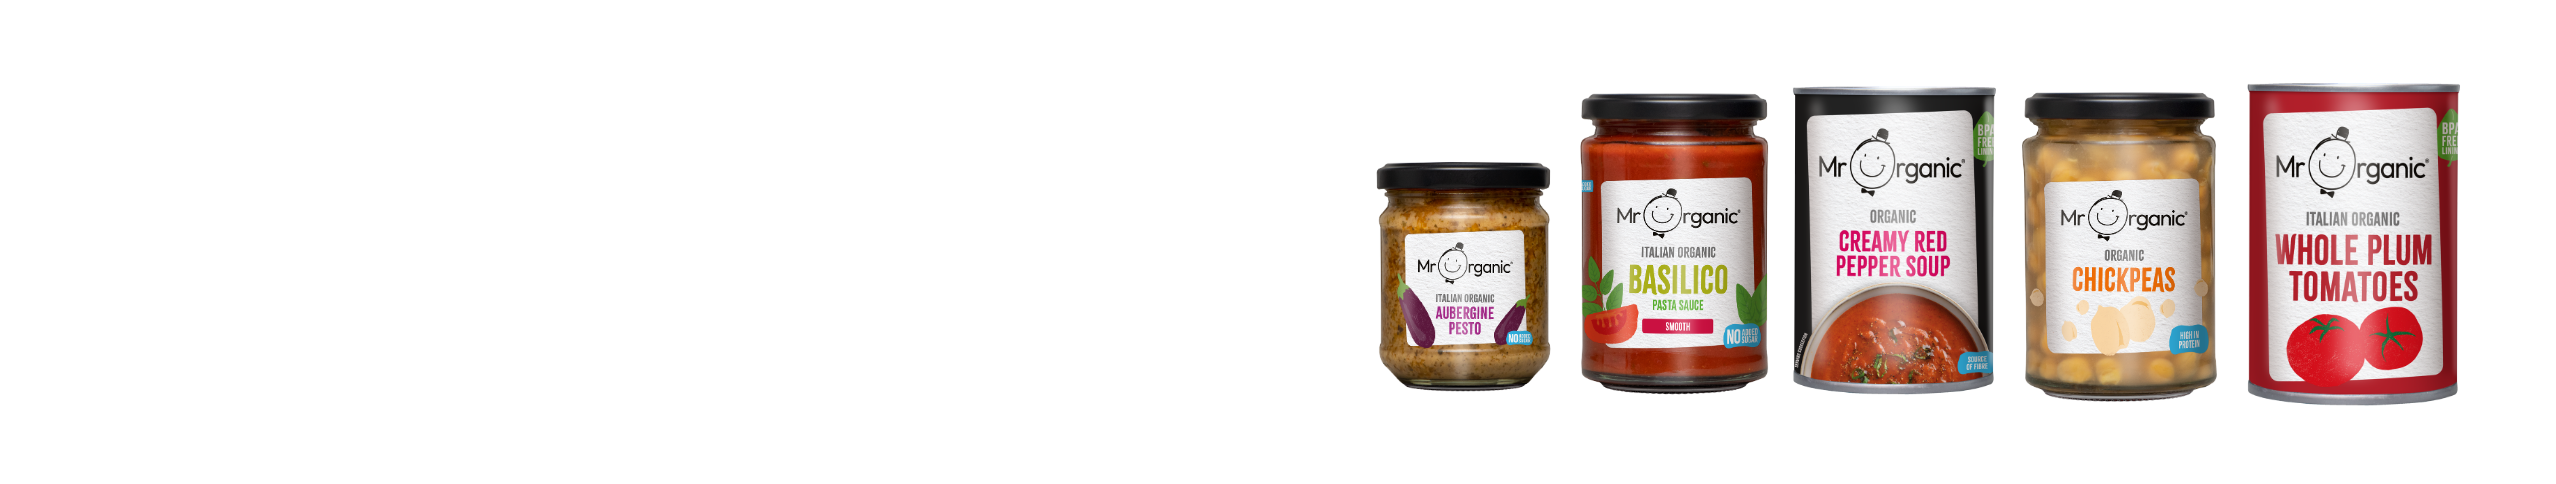
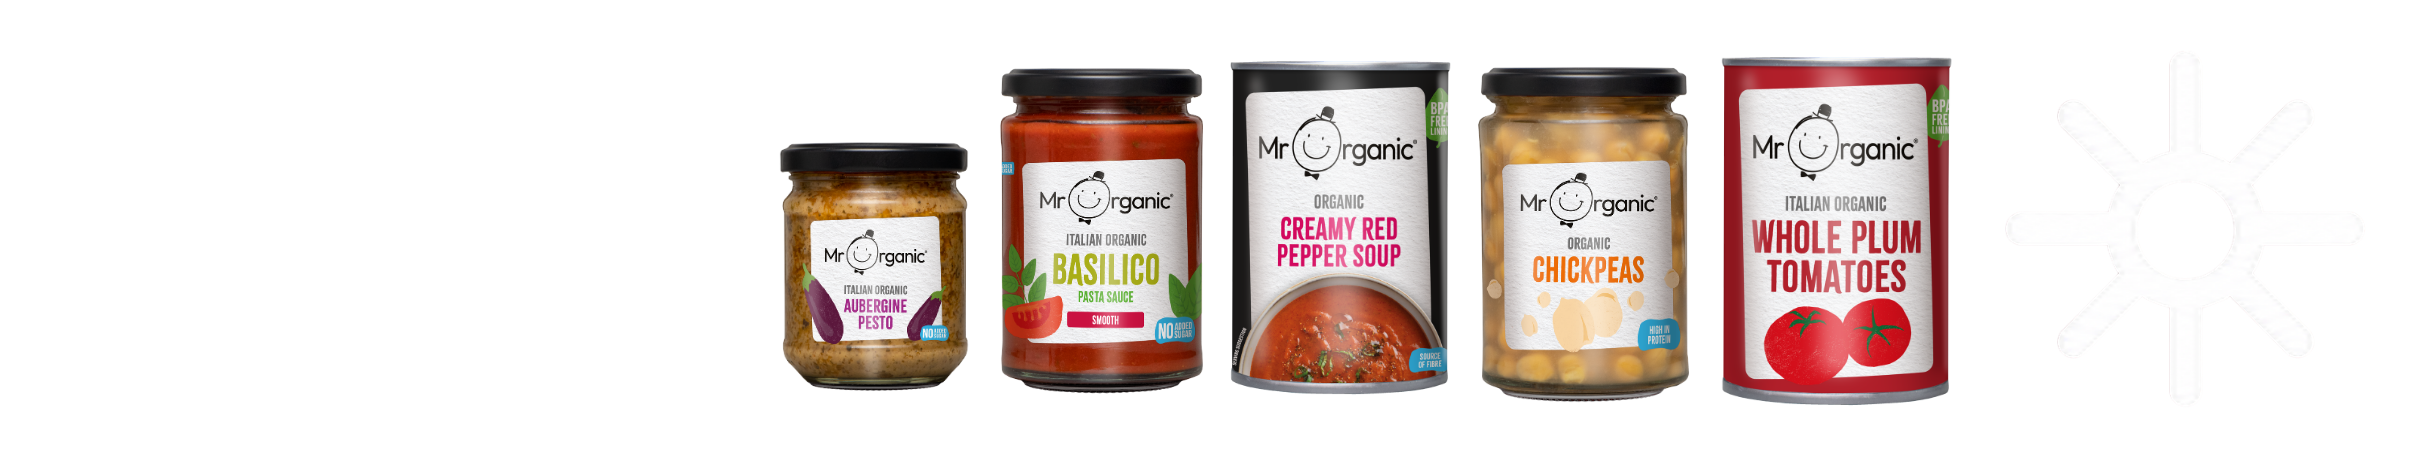
Enlarge the homepage Vault Market products on the left and use the updated pantry artwork.

diff --git a/src/components/home/HomeVaultMarketBanner.tsx b/src/components/home/HomeVaultMarketBanner.tsx
@@ -1,7 +1,7 @@
 import Image from "next/image";
 import Link from "next/link";
 
-const HOME_BANNER_SRC = "/vault market/home_vaultmarket.png";
+const HOME_BANNER_SRC = "/vault market/pantry_banner.png";
 
 const PILLARS = [
   {
@@ -27,31 +27,34 @@ export function HomeVaultMarketBanner({
     <section className={compactSpacing ? "py-8 sm:py-10" : "py-10 sm:py-14"}>
       <div className="mx-auto max-w-[1200px] px-4 sm:px-6 lg:px-8">
         <div className="relative overflow-hidden rounded-2xl bg-[#064E3B] text-white shadow-sm">
-          <div className="pointer-events-none absolute inset-y-0 right-0 hidden w-[42%] md:block">
-            <Image
-              src={HOME_BANNER_SRC}
-              alt=""
-              fill
-              sizes="(max-width: 768px) 0px, 42vw"
-              className="object-contain object-right-bottom"
-            />
-          </div>
+          <div className="relative md:flex md:min-h-[22rem] md:items-center">
+            <div className="pointer-events-none absolute inset-y-0 left-0 hidden w-1/2 items-center overflow-hidden md:flex">
+              <Image
+                src={HOME_BANNER_SRC}
+                alt=""
+                width={2414}
+                height={457}
+                sizes="80vw"
+                className="h-[21rem] w-auto max-w-none -translate-x-[32.3%] object-contain object-left"
+              />
+            </div>
 
-          <div className="relative z-10 px-6 pt-8 sm:px-10 sm:pt-10 md:max-w-[58%]">
-            <h2 className="text-2xl font-bold tracking-tight text-white sm:text-3xl">
-              Vault Market is Live
-            </h2>
-            <p className="mt-3 max-w-xl text-sm leading-relaxed text-emerald-50 sm:text-base">
-              Direct savings on everyday items, packed and shipped straight from our
-              central Auckland facility.
-            </p>
-            <div className="mt-6">
-              <Link
-                href="/pantry"
-                className="inline-flex h-11 items-center justify-center rounded-sm bg-[#A3E635] px-5 text-sm font-bold text-[#064E3B] transition-colors hover:bg-[#bef264]"
-              >
-                Shop Vault Market
-              </Link>
+            <div className="relative z-10 ml-auto px-6 pt-8 sm:px-10 sm:pt-10 md:w-1/2 md:py-10">
+              <h2 className="text-2xl font-bold tracking-tight text-white sm:text-3xl">
+                Vault Market is Live
+              </h2>
+              <p className="mt-3 max-w-xl text-sm leading-relaxed text-emerald-50 sm:text-base">
+                Direct savings on everyday items, packed and shipped straight from our
+                central Auckland facility.
+              </p>
+              <div className="mt-6">
+                <Link
+                  href="/pantry"
+                  className="inline-flex h-11 items-center justify-center rounded-sm bg-[#A3E635] px-5 text-sm font-bold text-[#064E3B] transition-colors hover:bg-[#bef264]"
+                >
+                  Shop Vault Market
+                </Link>
+              </div>
             </div>
           </div>
 
@@ -59,10 +62,10 @@ export function HomeVaultMarketBanner({
             <Image
               src={HOME_BANNER_SRC}
               alt=""
-              width={2555}
-              height={956}
+              width={2414}
+              height={457}
               sizes="100vw"
-              className="h-auto w-full object-contain object-bottom"
+              className="h-auto w-full object-contain object-center"
             />
           </div>
 

diff --git a/src/components/pantry/PantryHeroBanner.tsx b/src/components/pantry/PantryHeroBanner.tsx
@@ -29,8 +29,8 @@ export function PantryHeroBanner() {
         <Image
           src={PANTRY_BANNER_SRC}
           alt=""
-          width={2556}
-          height={484}
+          width={2414}
+          height={457}
           sizes="100vw"
           className="h-auto w-full object-contain object-bottom"
         />
